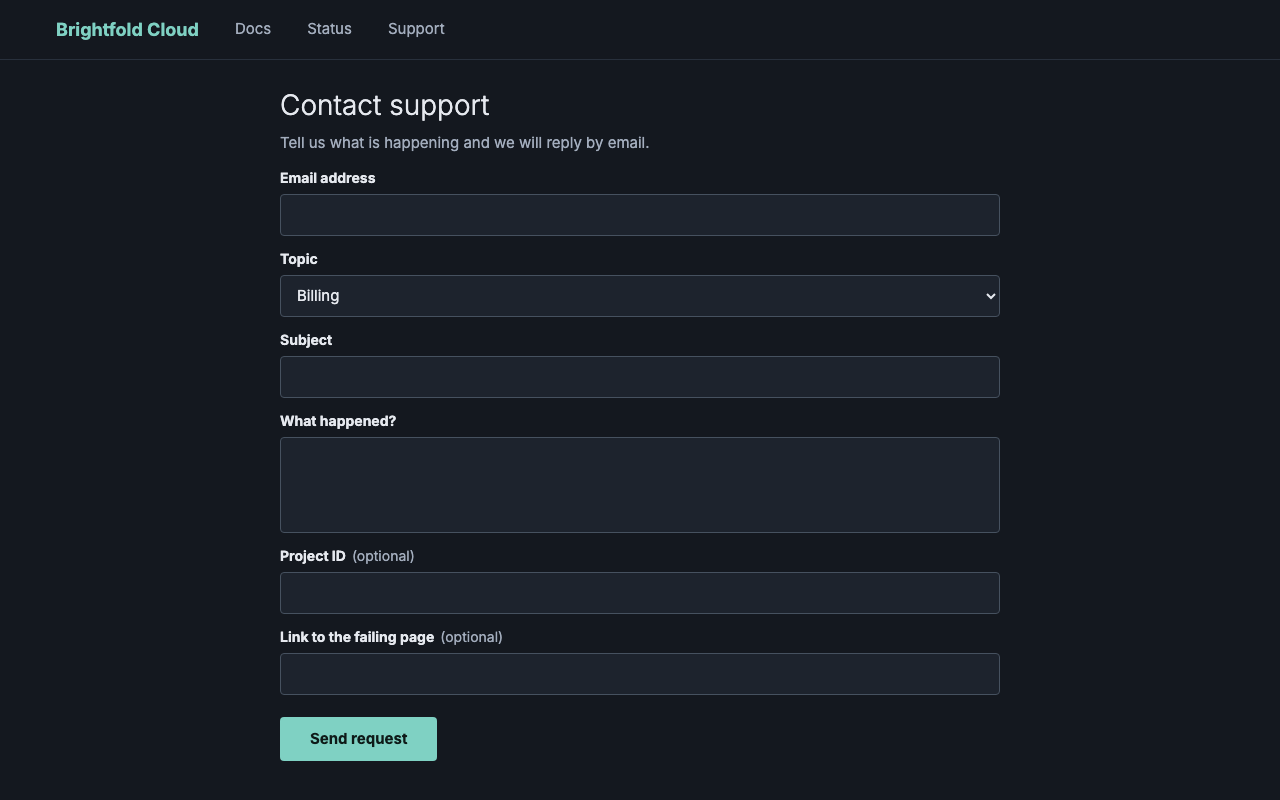
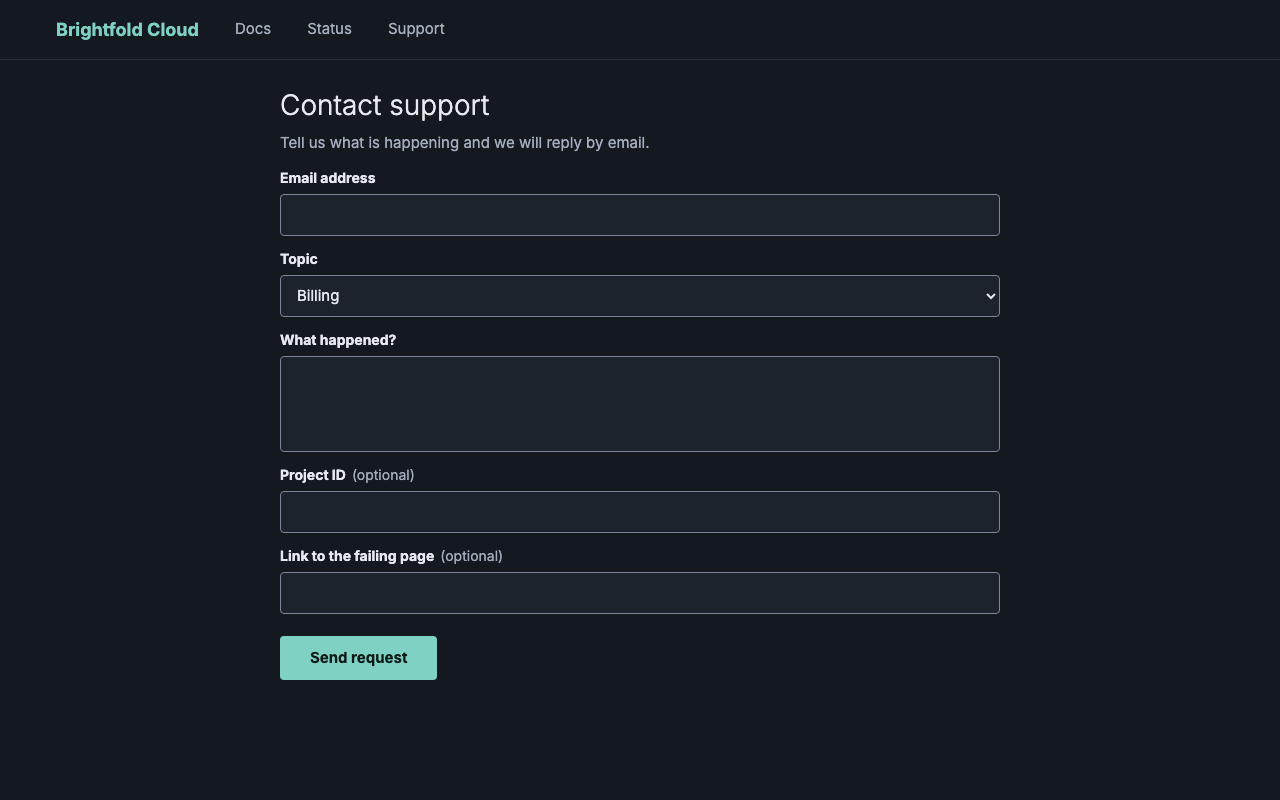
fix(packs): align ux question texts and fixtures
The required-fields-unmarked true and false texts now ask the same
thing as the instructions: whether a mark tells which fields must be
filled in or which are optional. Before, the true text named only the
required fields, so a literal reader could answer true on a form that
marks only its optional fields.

no-current-location-shown--4 showed tabs inside a settings page, which
is not a site navigation menu. It is now the Events page of a library
website, with a pale background on the current menu item on the clean
side.

required-fields-unmarked--4 drops the Subject field so the submit
button fits on the page, and its field outlines are lighter so they
read clearly on the dark background.

No scored run exists, so this is not a rewording under R-4.

Ticket: crit-q25.8
PRD: FR-45, FR-54, EV-4

diff --git a/packs/ux/templates/no-current-location-shown--4.html b/packs/ux/templates/no-current-location-shown--4.html
@@ -2,52 +2,55 @@
 <html lang="en">
   <head>
     <meta charset="utf-8">
-    <title>UX fixture: settings page tabs</title>
+    <title>UX fixture: library site navigation</title>
+    <!-- base.js sets html[data-defect] from ?defect=on|off before the page draws (OQ-17). -->
     <script src="../../_renderer/base.js"></script>
     <link rel="stylesheet" href="../../_renderer/base.css">
     <style>
 /*
- * Criterion no-current-location-shown. A settings page for an invented
- * photo-printing service, with horizontal tabs and a Notifications tab.
- * The defect switch only changes the font weight of the current tab
- * (Notifications): on makes it regular weight like its siblings, so nothing
- * marks it. Off shows it in bold. Every tab has a fixed width, so no tab
- * moves.
+ * Criterion no-current-location-shown. The Events page of an invented town
+ * library's website, with the site's navigation menu in a bar under the
+ * library name. The defect switch only changes the background color of the
+ * current menu item (Events): off gives it a pale pill background, on makes
+ * that background transparent like its siblings, so nothing marks it.
  */
-body { background: #eef1f4; color: #222a33; font-family: var(--font-sans); }
-.wrap { width: 840px; margin: 48px auto 0; }
-h1 { font-size: 30px; font-weight: 700; }
-.tabs { display: flex; margin-top: 22px; border-bottom: 1px solid #cdd3da; }
-.tabs a { width: 140px; padding: 12px 0; text-align: center; font-size: 15px; font-weight: 400; color: #46515e; text-decoration: none; }
-.tabs a.current { font-weight: 700; }
-[data-defect="on"] .tabs a.current { font-weight: 400; }
-.panel { background: #ffffff; border: 1px solid #cdd3da; border-top: 0; padding: 28px 32px 32px; }
-.row { display: flex; justify-content: space-between; align-items: center; padding: 18px 0; border-bottom: 1px solid #e6e9ed; }
-.row:last-child { border-bottom: 0; }
-.row b { display: block; font-size: 16px; font-weight: 400; }
-.row small { display: block; margin-top: 4px; font-size: 13px; color: #5c6773; }
-.switch { width: 40px; height: 22px; border-radius: 11px; background: #cdd3da; position: relative; }
-.switch.is-on { background: #1f7a6d; }
-.switch::after { content: ""; position: absolute; top: 3px; left: 3px; width: 16px; height: 16px; border-radius: 8px; background: #ffffff; }
-.switch.is-on::after { left: 21px; }
+body { background: #fbfaf7; color: #26221d; font-family: "Inter"; }
+.masthead { display: flex; align-items: center; justify-content: space-between; height: 76px; padding: 0 64px; background: #ffffff; border-bottom: 1px solid #e3ded5; }
+.name { font-family: "Source Serif 4"; font-size: 24px; font-weight: 700; color: #5a2e1a; }
+.hours { font-size: 14px; color: #6a6259; }
+nav { display: flex; gap: 6px; padding: 10px 56px; background: #ffffff; border-bottom: 1px solid #e3ded5; }
+nav a { padding: 7px 14px; border-radius: 18px; font-size: 15px; color: #3b352e; text-decoration: none; background-color: transparent; }
+nav a.current { background-color: #f1e3d6; }
+[data-defect="on"] nav a.current { background-color: transparent; }
+main { padding: 40px 64px 0; }
+h1 { font-family: "Source Serif 4"; font-size: 36px; font-weight: 700; }
+.intro { margin-top: 8px; font-size: 16px; color: #5c554c; }
+.list { margin-top: 28px; width: 820px; }
+.event { display: flex; gap: 28px; padding: 18px 0; border-top: 1px solid #e3ded5; }
+.date { width: 92px; flex: none; font-size: 14px; font-weight: 700; color: #5a2e1a; }
+.event h2 { font-size: 17px; font-weight: 700; }
+.event p { margin-top: 4px; font-size: 14px; color: #5c554c; }
     </style>
   </head>
   <body>
-    <div class="wrap">
-      <h1>Notifications</h1>
-      <div class="tabs">
-        <a href="#">Profile</a>
-        <a href="#">Security</a>
-        <a class="current" href="#">Notifications</a>
-        <a href="#">Billing</a>
-        <a href="#">Team</a>
+    <header class="masthead"><span class="name">Ashby Hollow Library</span><span class="hours">Open today 9:00 to 19:00</span></header>
+    <nav>
+      <a href="#">Home</a>
+      <a href="#">Catalog</a>
+      <a href="#" class="current">Events</a>
+      <a href="#">Kids and teens</a>
+      <a href="#">Visit</a>
+      <a href="#">About</a>
+    </nav>
+    <main>
+      <h1>Events</h1>
+      <p class="intro">Free talks, workshops, and story times this month. No booking needed unless noted.</p>
+      <div class="list">
+        <div class="event"><span class="date">Tue 4 Nov</span><div><h2>Story time for under-fives</h2><p>Picture books and songs in the children's corner, 10:30.</p></div></div>
+        <div class="event"><span class="date">Thu 6 Nov</span><div><h2>Repair cafe</h2><p>Bring a lamp, a toaster, or a torn coat, and volunteers help you fix it, 14:00.</p></div></div>
+        <div class="event"><span class="date">Sat 8 Nov</span><div><h2>Local history walk</h2><p>A guided walk along the old mill race. Booking needed, 11:00.</p></div></div>
+        <div class="event"><span class="date">Wed 12 Nov</span><div><h2>Beginners' chess club</h2><p>Boards provided. All ages welcome, 17:30.</p></div></div>
       </div>
-      <div class="panel">
-        <div class="row"><div><b>Order updates</b><small>Tell me when a print order ships</small></div><div class="switch is-on"></div></div>
-        <div class="row"><div><b>Reminders</b><small>Remind me about unfinished albums</small></div><div class="switch is-on"></div></div>
-        <div class="row"><div><b>Offers</b><small>Occasional discounts and new products</small></div><div class="switch"></div></div>
-        <div class="row"><div><b>Product news</b><small>A short note when we add features</small></div><div class="switch"></div></div>
-      </div>
-    </div>
+    </main>
   </body>
 </html>

diff --git a/packs/ux/templates/required-fields-unmarked--4.html b/packs/ux/templates/required-fields-unmarked--4.html
@@ -24,7 +24,7 @@ h1 { font-size: 28px; font-weight: 300; }
 .pair .field { flex: 1; }
 label { display: block; font-size: 14px; font-weight: 700; color: #e6e9ef; }
 .opt { font-weight: 400; color: #a3adbd; margin-left: 6px; }
-input, select, textarea { display: block; width: 100%; margin-top: 6px; padding: 0 12px; font-family: var(--font-sans); font-size: 15px; color: #e6e9ef; background: #1d232d; border: 1px solid #46515f; border-radius: 4px; }
+input, select, textarea { display: block; width: 100%; margin-top: 6px; padding: 0 12px; font-family: var(--font-sans); font-size: 15px; color: #e6e9ef; background: #1d232d; border: 1px solid #7a8697; border-radius: 4px; }
 input, select { height: 42px; }
 textarea { height: 96px; padding-top: 10px; resize: none; }
 button { height: 44px; margin-top: 22px; padding: 0 30px; border: 0; border-radius: 4px; background: #7fd1c3; color: #0e1a18; font-family: var(--font-sans); font-size: 15px; font-weight: 700; }
@@ -42,7 +42,6 @@ button { height: 44px; margin-top: 22px; padding: 0 30px; border: 0; border-radi
           <div class="field"><label for="d1">Email address</label><input id="d1" type="text"></div>
           <div class="field"><label for="d2">Topic</label><select id="d2"><option>Billing</option><option>Deployments</option><option>Domains</option></select></div>
         </div>
-        <div class="field"><label for="d3">Subject</label><input id="d3" type="text"></div>
         <div class="field"><label for="d4">What happened?</label><textarea id="d4"></textarea></div>
         <div class="stack">
           <div class="field"><label for="d5">Project ID<span class="opt">(optional)</span></label><input id="d5" type="text"></div>
